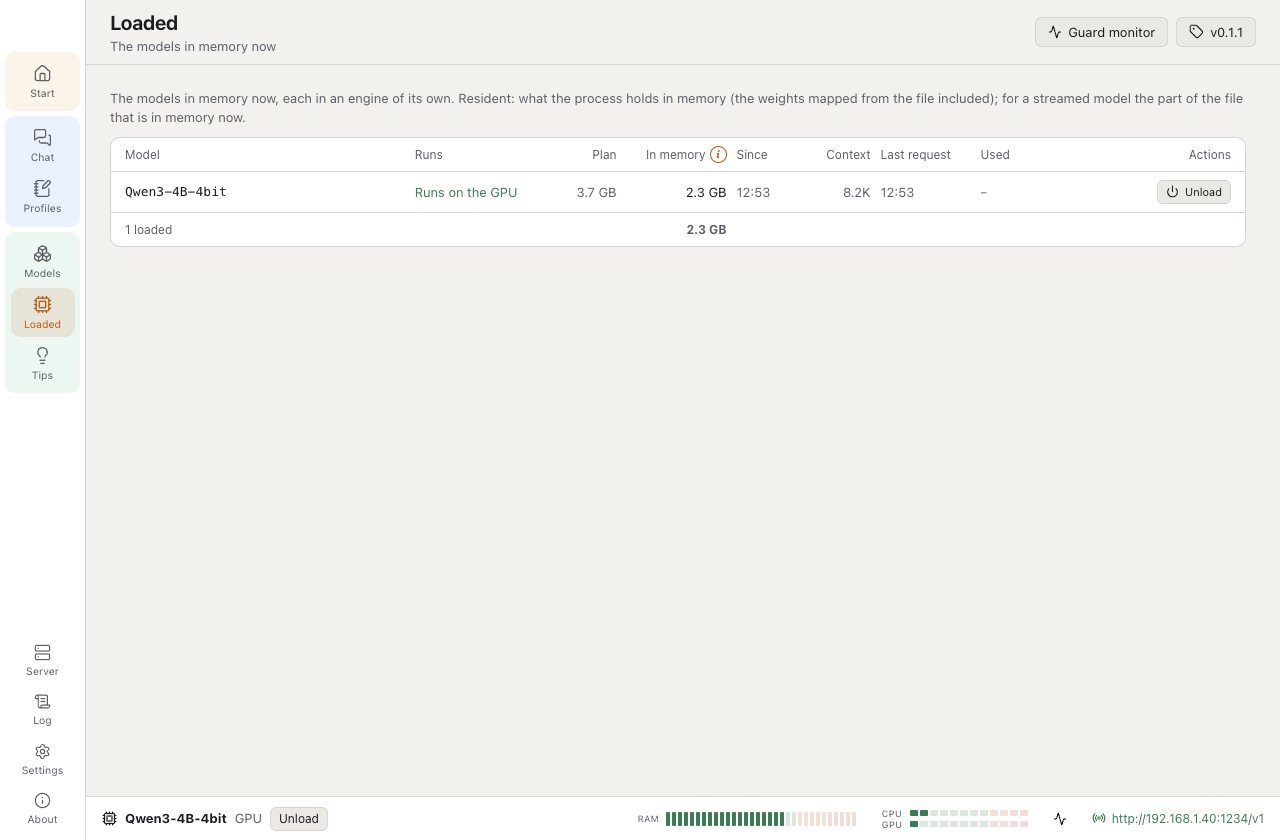
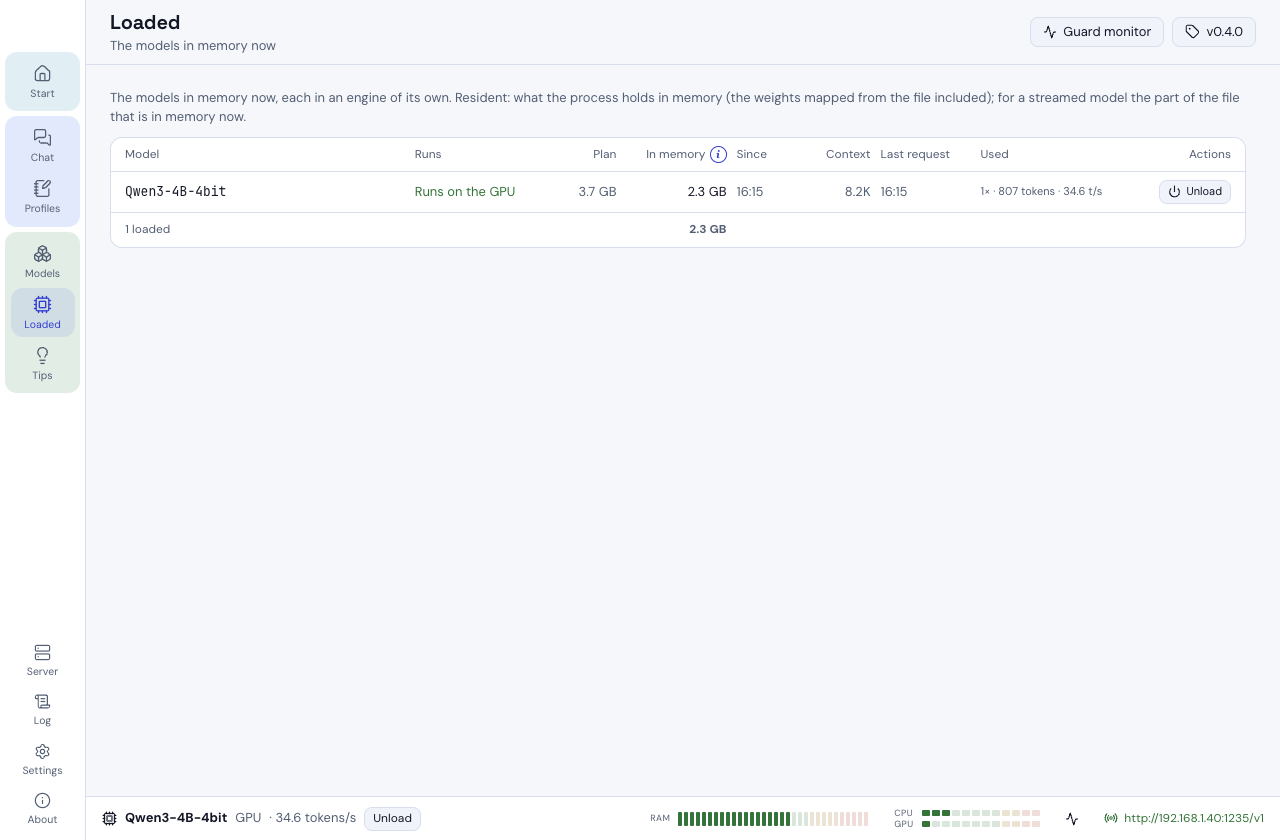
okAI-helper 0.4.0: changes

diff --git a/CHANGELOG.md b/CHANGELOG.md
@@ -1,5 +1,22 @@
 # Changelog
 
+## 0.4.0 (2026-11-25)
+
+- New look, the same as the website's: deep navy in dark mode, blue buttons, light blue and cyan accents, rounder
+  cards; light mode in the same colours. The fonts come with the app: Space Grotesk for headings, DM Sans for text,
+  JetBrains Mono for code (all under the SIL Open Font License, texts in THIRD_PARTY_NOTICES.txt). Text keeps a
+  contrast of at least 4.5:1 in both modes. The start page shows the website's moving mesh behind its cards: it moves
+  for a few seconds after the page opens and while the pointer moves over it, then stands still (moving it costs
+  about 7 % of a core, standing nothing measurable), and it stays still with "Reduce motion". A blue app icon.
+- Server page: this computer's own network addresses are shown always, also while "Reachable in the network" is off.
+  Allowed devices are easier to add: a button per own network ("Allow 192.168.1.0/24") and a list of the devices that
+  were refused lately (403), each with "Allow".
+- Settings, Speech input: the microphone. Whether macOS allows the app to use it (with a button to ask or the way to
+  System Settings), which microphone the chat records from (the system default when it is unplugged), and a test
+  recording of 3 seconds with a level meter, played back in the app only.
+- Updates: the update is mounted with `diskutil image attach` and ejected with `diskutil eject` on macOS 15 and newer;
+  `hdiutil attach`, which macOS reports as deprecated there, stays for macOS 14.
+
 ## 0.3.2 (2026-11-24)
 
 - Server: pictures, sound and video in a request are taken only inline (data: URLs, or base64 for audio data), not

diff --git a/README.md b/README.md
@@ -23,7 +23,7 @@ Chat · Prompt profiles · Speech input · OpenAI-compatible server · MCP serve
 
 The app speaks **English** · Deutsch · Español · Português (Brasil) · Português (Portugal)
 
-<sub>Made by the author of [VulKara](https://github.com/revil-O/VulKara), with the same look and feel. This repository holds the signed and notarized releases; the app looks here for its updates.</sub>
+<sub>Made by the author of [VulKara](https://github.com/revil-O/VulKara). This repository holds the signed and notarized releases; the app looks here for its updates.</sub>
 
 </div>
 
